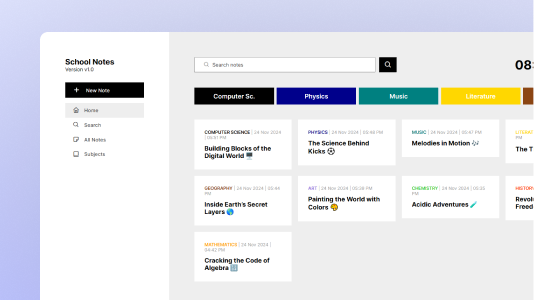
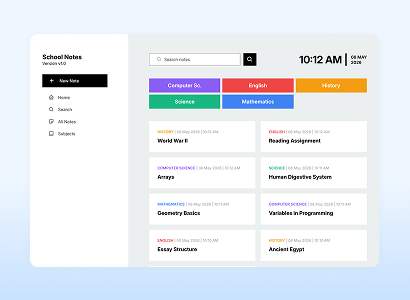
Add real personal projects data with new images

diff --git a/src/data/projects.ts b/src/data/projects.ts
@@ -1,49 +1,53 @@
+import placeholderImage from "../assets/ProjectThumbs/project-placeholder.png";
+import habitzy from "../assets/ProjectThumbs/Habitzy.png";
+import telegramYTDLBot from "../assets/ProjectThumbs/TelegramYTDLBot.png";
 import cafesy from "../assets/ProjectThumbs/Cafesy.png";
+import schoolNotes from "../assets/ProjectThumbs/SchoolNotes.png";
 
 export const projects = {
   personal: [
     {
       title: "Habitzy",
-      desc: "Lorem ipsum dolor sit amet consectetur adipisicing elit. Officiis, minus.",
-      stack: ["React", "Node.js"],
-      image: cafesy,
-      url: "/",
+      desc: "a simple habit tracking app that lets users see their progress over time.",
+      stack: ["React", "Node.js", "MongoDB", "Express.js", "Docker"],
+      image: habitzy,
+      url: "https://github.com/DevHanza/habitzy",
     },
     {
-      title: "TelegramYTDLBot  —  Telegram Bot",
-      desc: "Lorem ipsum dolor sit amet consectetur adipisicing elit. Officiis, minus.",
-      stack: ["Python"],
-      image: cafesy,
-      url: "/",
+      title: "SchoolNotes",
+      desc: "Note taking app that lets users manage their class/school notes in a simple digital interface.",
+      stack: ["Angular", "Node.js", "MongoDB", "Express.js"],
+      image: schoolNotes,
+      url: "https://github.com/DevHanza/SchoolNotes",
     },
+
+    // {
+    //   title: "ResponsiveShot",
+    //   desc: "Lorem ipsum dolor sit amet consectetur adipisicing elit. Officiis, minus.",
+    //   stack: ["Python"],
+    //   image: placeholderImage,
+    //   url: "/",
+    // },
     {
-      title: "SchoolNotes  —  MEAN-stack Application",
-      desc: "Lorem ipsum dolor sit amet consectetur adipisicing elit. Officiis, minus.",
-      stack: ["Angular"],
-      image: cafesy,
-      url: "/",
-    },
-    {
-      title: "Cafesy  —  E-Commerce Website",
-      desc: "Lorem ipsum dolor sit amet consectetur adipisicing elit. Officiis, minus.",
-      stack: ["Node.js"],
+      title: "Cafesy",
+      desc: "An online store for a coffee shop where you can buy products, contact, email newsletter, and more.",
+      stack: ["JavaScript", "Express.js", "Node.js", "SASS"],
       image: cafesy,
       url: "https://github.com/DevHanza/cafesy",
+    },
+    {
+      title: "TelegramYTDLBot",
+      desc: "A Telegram bot that lets users download YouTube videos directly through Telegram.",
+      stack: ["Python", "Docker"],
+      image: telegramYTDLBot,
+      url: "https://github.com/DevHanza/TelegramYTDLBot",
     },
   ],
   commercial: [
     {
       title: "Hanzas  —  Web Agency Website",
       desc: "Lorem ipsum dolor sit amet consectetur adipisicing elit. Officiis, minus.",
-      stack: [
-        "JavaScript",
-        "React",
-        "Node.js",
-        "JavaScript",
-        "React",
-        "Node.js",
-      ],
-      image: cafesy,
+      image: placeholderImage,
       url: "/",
     },
   ],